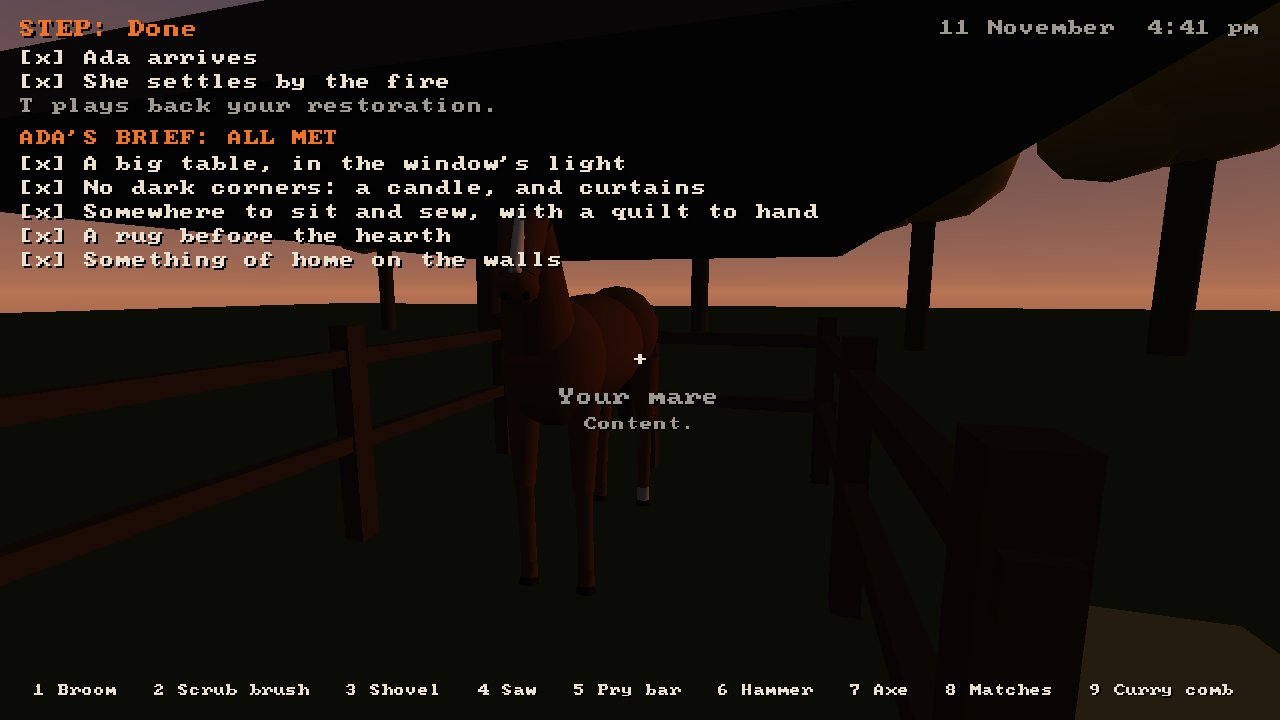
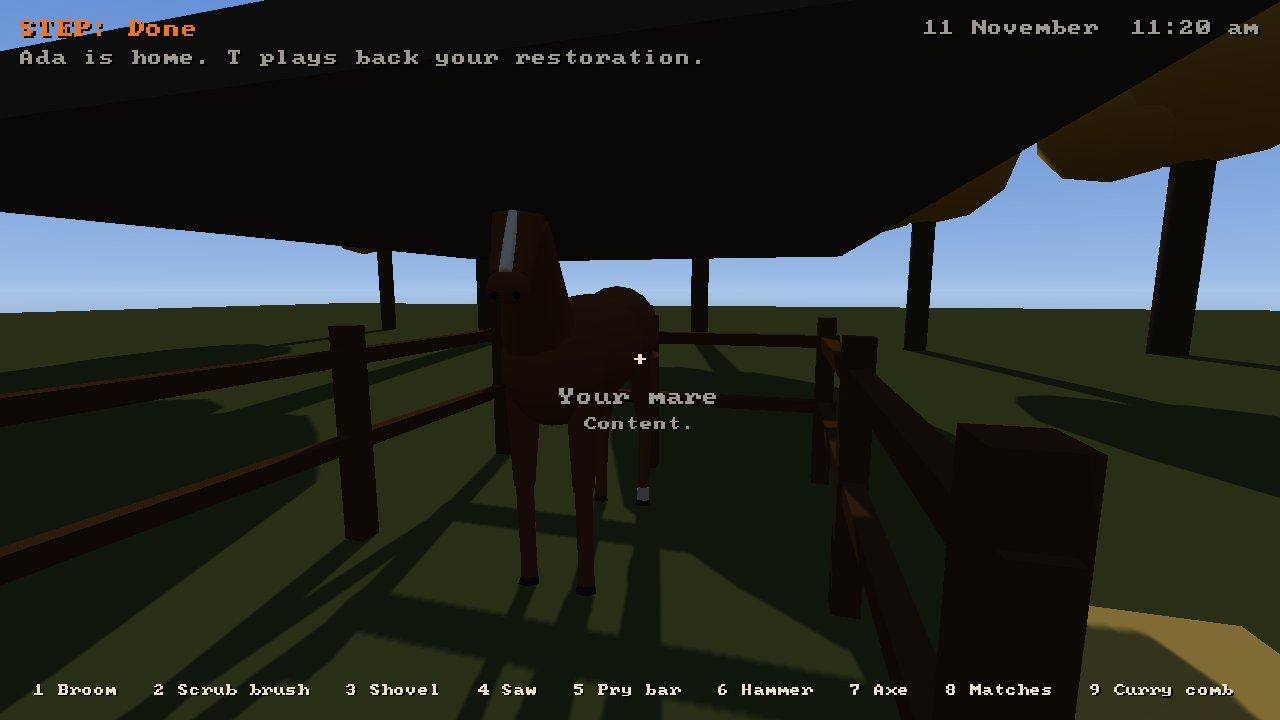
README: re-render the game images for the slower clock and the wagon
Claude-Session: https://claude.ai/code/session_01Wdvu9PZ29gZh3bW9UErSFW

diff --git a/README.md b/README.md
@@ -13,24 +13,24 @@ the damage, clear the place out (sweep and scrub the grime away patch by patch, 
 out, saw the fallen rafter, shovel out the snow), repair it (pry up rotten boards and lay new
 planks, patch the roof, pry the boards off the window, mend the rocking chair, set the table right),
 furnish it from the wagon against Ada's brief, and kindle the hearth (split the firewood, shovel
-out the ash, lay the fire and hold a match to it until it catches). The day runs from late morning
-on 11 November into the first frost. Then Ada Lark walks up from her wagon, tells you what she
+out the ash, lay the fire and hold a match to it until it catches). The day runs from nine in the
+morning on 11 November into the first frost. Then Ada Lark walks up from her wagon, tells you what she
 thinks of what you made for her, and sits down by the fire, and the whole restoration plays back
 as a timelapse. Your mare waits in her stall to be fed and brushed. The game saves as you go. What
 comes after the MVP is in [CONCEPT.md](CONCEPT.md).
 
-![The reveal: the cabin from ruin to home, played back from the restoration's own keyframes, from a grey morning to the hearth lit at dusk with Ada in the rocking chair](docs/images/reveal.gif)
+![The reveal: the cabin from ruin to home, played back from the restoration's own keyframes, from nine in the morning to the hearth lit before noon, with Ada in the rocking chair](docs/images/reveal.gif)
 
 *The reveal at the end of a restoration, as the game plays it: here the autopilot's playthrough,
 recorded and rendered headless by the game itself (`--headless --autopilot --reveal-frames`).*
 
-| The ruin, at nine in the morning | Ada's home, at twenty to five in the afternoon |
+| The ruin, at nine in the morning | Ada's home, at twenty past eleven |
 |---|---|
-| ![The ruined cabin room: grime, debris, the fallen rafter and snow under the roof hole](docs/images/game-m5-ruin.jpg) | ![The same room restored at dusk: the fire lit, a braided rug, curtains, a sampler on the wall, and Ada in the rocking chair, seen from behind its quilt-hung back](docs/images/game-m5-home.jpg) |
+| ![The ruined cabin room: grime, debris, the fallen rafter and snow under the roof hole](docs/images/game-m5-ruin.jpg) | ![The same room restored, late in the morning: the fire lit, a braided rug, curtains, a sampler on the wall, split logs stacked by the hearth, and Ada in the rocking chair, seen from behind its quilt-hung back](docs/images/game-m5-home.jpg) |
 
-| Surveying the ruin | The mare, fed and brushed, at sundown |
+| Surveying the ruin | The mare, fed and brushed, once Ada is home |
 |---|---|
-| ![First person inside the ruined cabin: the soot-black chimney, the fallen rafter, a snow drift under the roof hole, boards nailed over the window, and the survey checklist in the corner](docs/images/game-m1-survey.jpg) | ![The mare in her stall at sundown, under a pink sky, with Ada's brief all met in the corner](docs/images/game-m7-mare.jpg) |
+| ![First person inside the ruined cabin: the soot-black chimney, the fallen rafter, a snow drift under the roof hole, boards nailed over the window, and the survey checklist in the corner](docs/images/game-m1-survey.jpg) | ![The mare in her stall under a clear blue sky, content, with the one-line note that Ada is home in the corner](docs/images/game-m7-mare.jpg) |
 
 ## Play it
 
@@ -79,9 +79,9 @@ simulation and its tests, with no engine.
 
 | Sweeping | Unboarded |
 |---|---|
-| ![First person, broom in hand, sweeping: dust rising at the crosshair, the meter under it at 77% clean, and the Clear checklist in the corner](docs/images/game-m2-swept.jpg) | ![The window with its boards pried off and daylight coming in, the pry bar in hand](docs/images/game-m3-window.jpg) |
+| ![First person, broom in hand, sweeping: the meter under the crosshair at 64% clean, and the Clear checklist in the corner](docs/images/game-m2-swept.jpg) | ![The window with its boards pried off and daylight coming in, the pry bar in hand](docs/images/game-m3-window.jpg) |
 | **Shovelling the drift** | **Ada, home** |
-| ![The snow drift under the roof hole, the shovel in hand, its meter just starting, and the hint to shovel it out before it melts into the floor](docs/images/game-snow-shovel.jpg) | ![Close-up of Ada in the mended rocking chair by a braided rug, a quilt over the chair back, in the late afternoon light](docs/images/game-closeup-ada.jpg) |
+| ![The snow drift under the roof hole, the shovel in hand, its meter at 57%, and the hint to shovel it out before it melts into the floor](docs/images/game-snow-shovel.jpg) | ![Close-up of Ada in the mended rocking chair by a braided rug, a quilt over the chair back, in warm light](docs/images/game-closeup-ada.jpg) |
 
 `kindling --headless --tour --frames DIR` walks a scripted path into the cabin, sweeps and scrubs a
 little, without a window, and writes a screenshot at each stop. `kindling --autopilot` hands the
